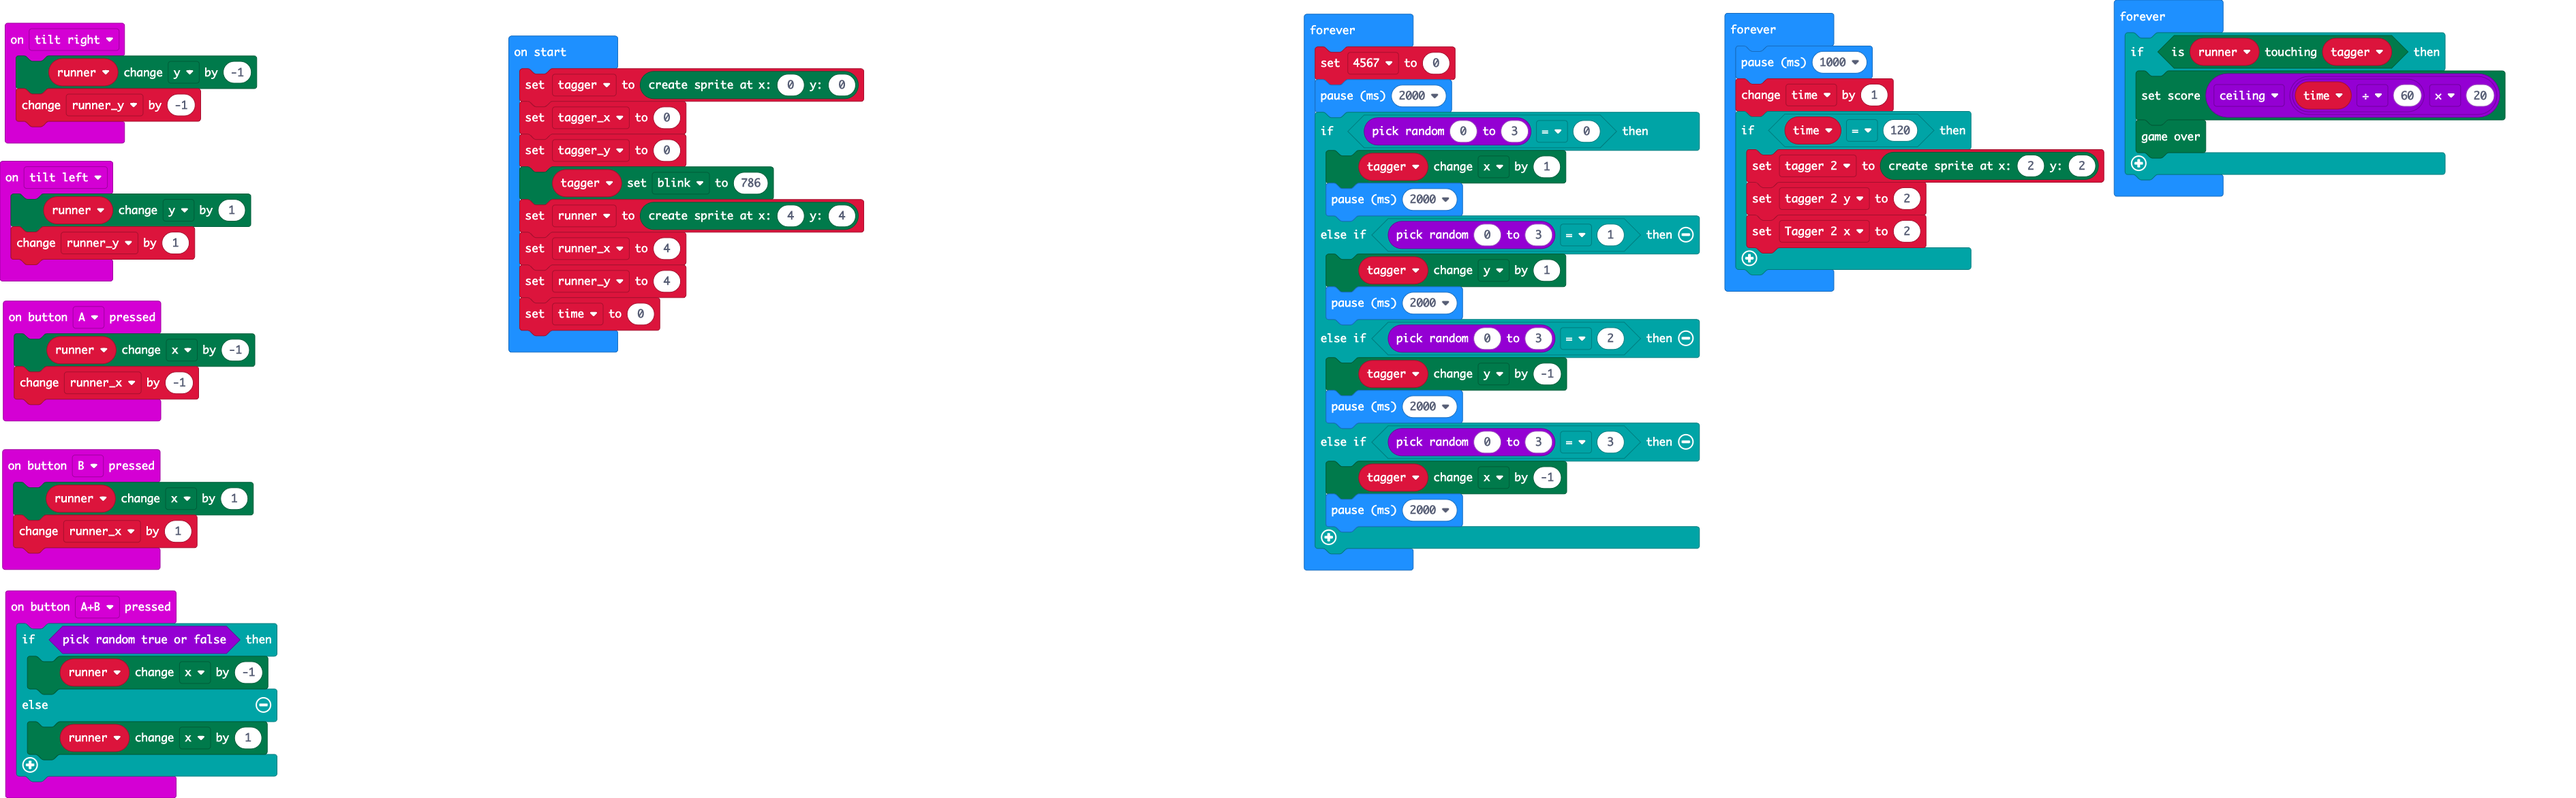
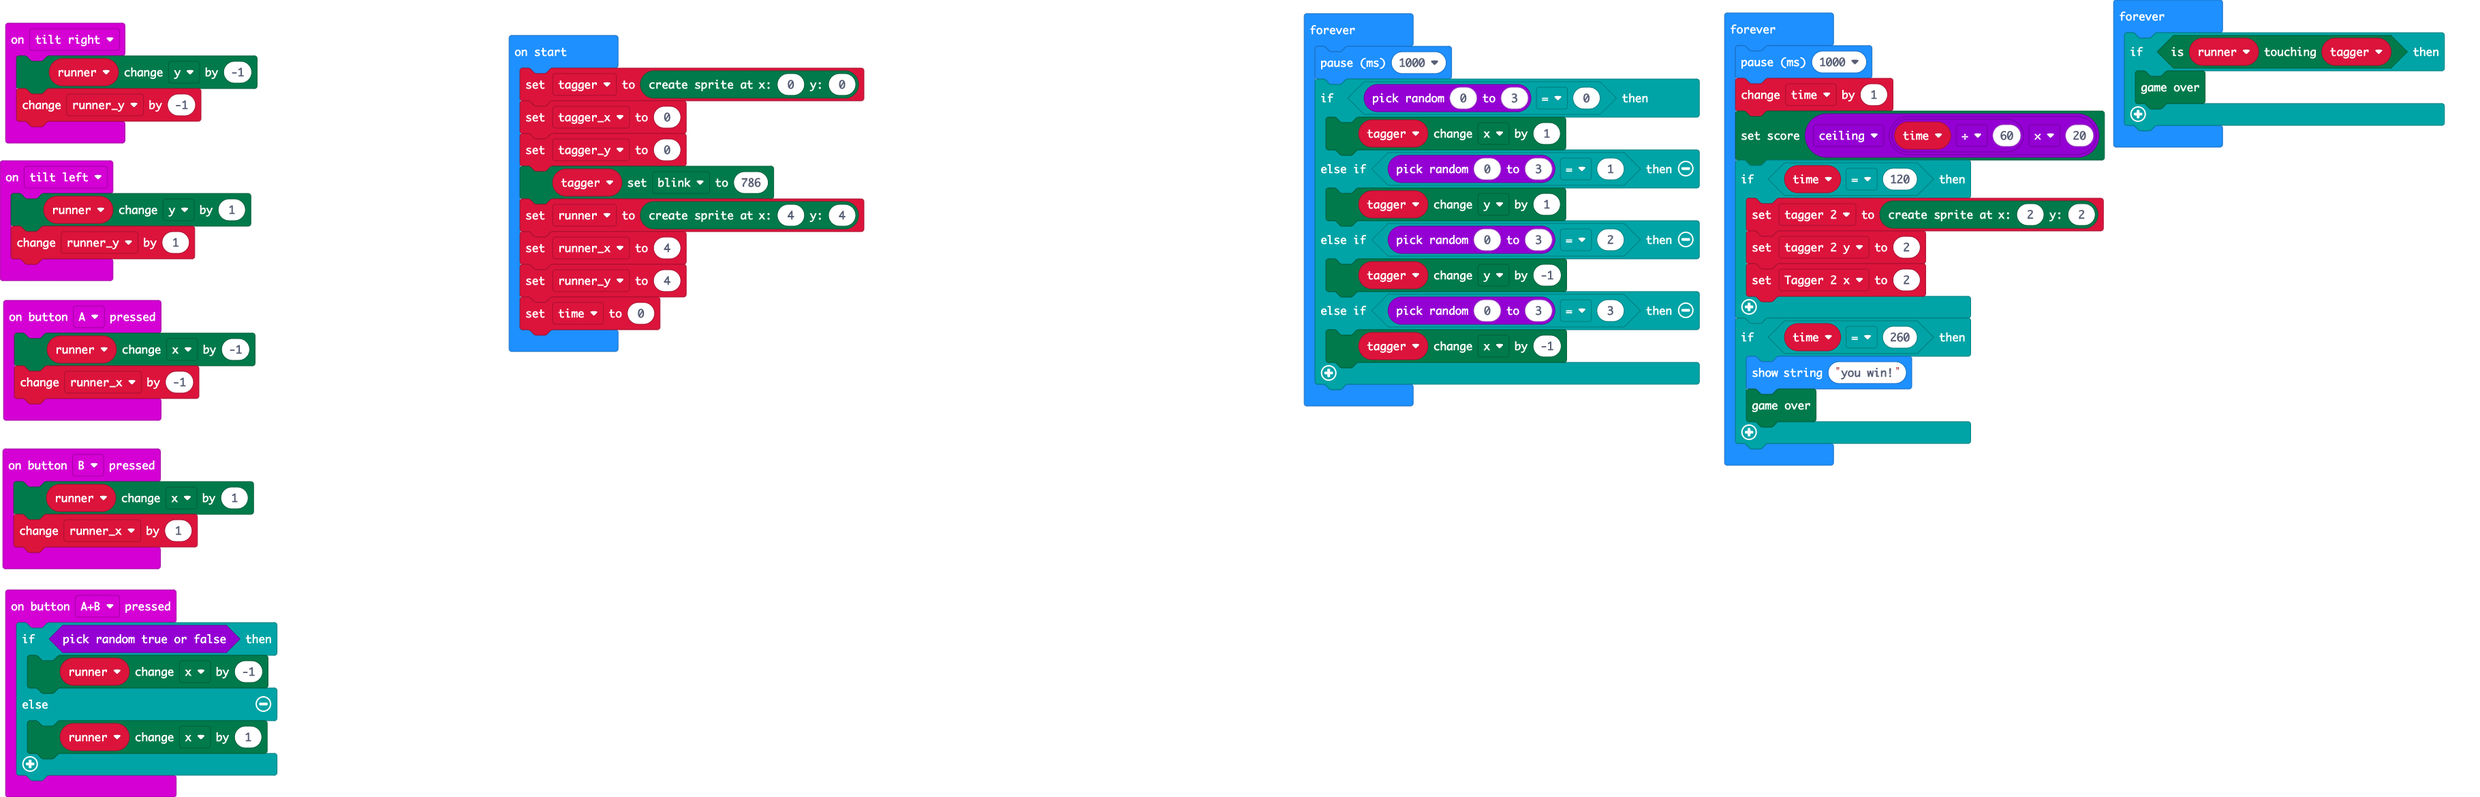
added winning moved score

diff --git a/main.ts b/main.ts
@@ -25,7 +25,6 @@ let Tagger_2_x = 0
 let tagger_2_y = 0
 let tagger_2: game.LedSprite = null
 let runner: game.LedSprite = null
-let _4567 = 0
 let tagger = game.createSprite(0, 0)
 let tagger_x = 0
 let tagger_y = 0
@@ -35,34 +34,33 @@ let runner_x = 4
 let runner_y = 4
 let time = 0
 basic.forever(function () {
-    _4567 = 0
-    basic.pause(2000)
+    basic.pause(1000)
     if (randint(0, 3) == 0) {
         tagger.change(LedSpriteProperty.X, 1)
-        basic.pause(2000)
     } else if (randint(0, 3) == 1) {
         tagger.change(LedSpriteProperty.Y, 1)
-        basic.pause(2000)
     } else if (randint(0, 3) == 2) {
         tagger.change(LedSpriteProperty.Y, -1)
-        basic.pause(2000)
     } else if (randint(0, 3) == 3) {
         tagger.change(LedSpriteProperty.X, -1)
-        basic.pause(2000)
     }
 })
 basic.forever(function () {
     basic.pause(1000)
     time += 1
+    game.setScore(Math.ceil(time / 60 * 20))
     if (time == 120) {
         tagger_2 = game.createSprite(2, 2)
         tagger_2_y = 2
         Tagger_2_x = 2
     }
+    if (time == 260) {
+        basic.showString("you win!")
+        game.gameOver()
+    }
 })
 basic.forever(function () {
     if (runner.isTouching(tagger)) {
-        game.setScore(Math.ceil(time / 60 * 20))
         game.gameOver()
     }
 })

diff --git a/main.py b/main.py
@@ -1,9 +1,74 @@
-def on_forever():
-    if True:
-        while True:
-            basic.show_number(500000)
-    elif 5 < 9:
-        basic.show_number(5000)
+def on_button_pressed_a():
+    global runner_x
+    runner.change(LedSpriteProperty.X, -1)
+    runner_x += -1
+input.on_button_pressed(Button.A, on_button_pressed_a)
+
+def on_gesture_tilt_left():
+    global runner_y
+    runner.change(LedSpriteProperty.Y, 1)
+    runner_y += 1
+input.on_gesture(Gesture.TILT_LEFT, on_gesture_tilt_left)
+
+def on_button_pressed_ab():
+    if Math.random_boolean():
+        runner.change(LedSpriteProperty.X, -1)
     else:
-        basic.show_number(5)
+        runner.change(LedSpriteProperty.X, 1)
+input.on_button_pressed(Button.AB, on_button_pressed_ab)
+
+def on_button_pressed_b():
+    global runner_x
+    runner.change(LedSpriteProperty.X, 1)
+    runner_x += 1
+input.on_button_pressed(Button.B, on_button_pressed_b)
+
+def on_gesture_tilt_right():
+    global runner_y
+    runner.change(LedSpriteProperty.Y, -1)
+    runner_y += -1
+input.on_gesture(Gesture.TILT_RIGHT, on_gesture_tilt_right)
+
+Tagger_2_x = 0
+tagger_2_y = 0
+tagger_2: game.LedSprite = None
+runner: game.LedSprite = None
+tagger = game.create_sprite(0, 0)
+tagger_x = 0
+tagger_y = 0
+tagger.set(LedSpriteProperty.BLINK, 786)
+runner = game.create_sprite(4, 4)
+runner_x = 4
+runner_y = 4
+time = 0
+
+def on_forever():
+    basic.pause(1000)
+    if randint(0, 3) == 0:
+        tagger.change(LedSpriteProperty.X, 1)
+    elif randint(0, 3) == 1:
+        tagger.change(LedSpriteProperty.Y, 1)
+    elif randint(0, 3) == 2:
+        tagger.change(LedSpriteProperty.Y, -1)
+    elif randint(0, 3) == 3:
+        tagger.change(LedSpriteProperty.X, -1)
 basic.forever(on_forever)
+
+def on_forever2():
+    global time, tagger_2, tagger_2_y, Tagger_2_x
+    basic.pause(1000)
+    time += 1
+    if time == 120:
+        tagger_2 = game.create_sprite(2, 2)
+        tagger_2_y = 2
+        Tagger_2_x = 2
+    if time == 260:
+        basic.show_string("you win!")
+        game.game_over()
+basic.forever(on_forever2)
+
+def on_forever3():
+    if runner.is_touching(tagger):
+        game.set_score(Math.ceil(time / 60 * 20))
+        game.game_over()
+basic.forever(on_forever3)
